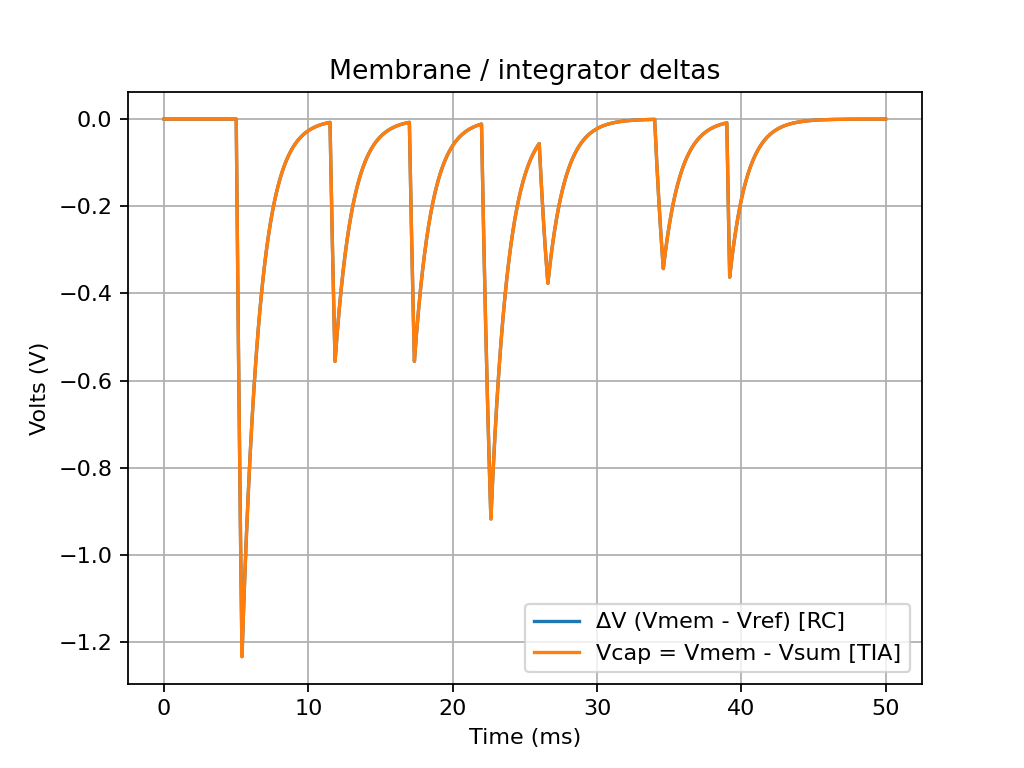
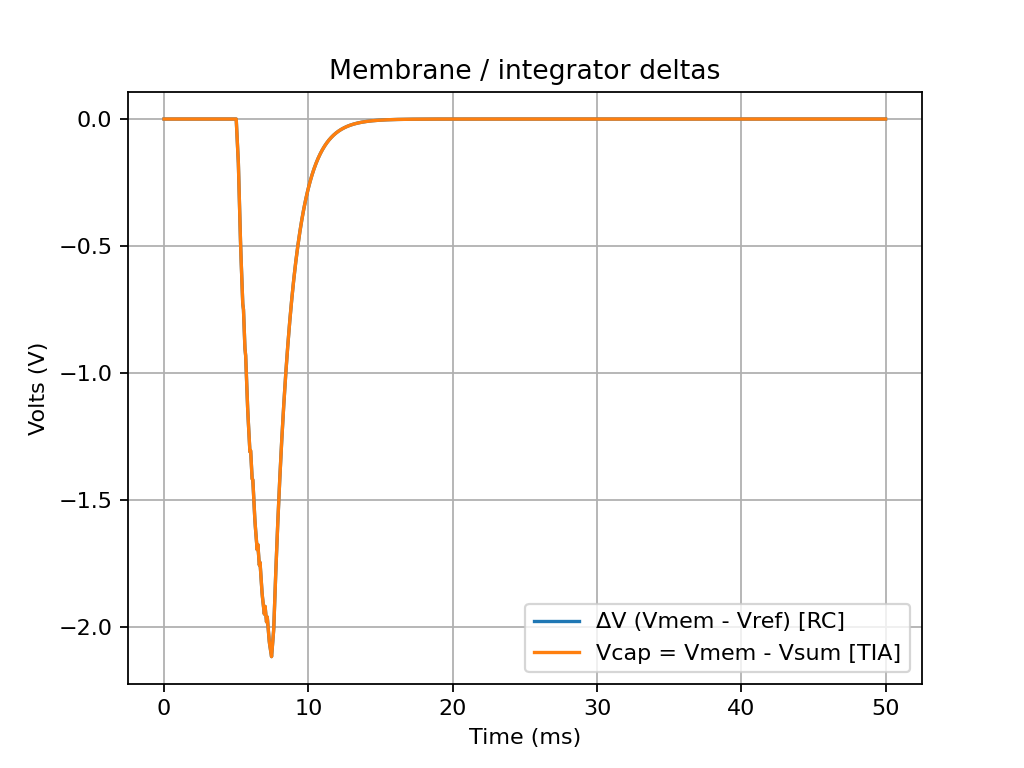
WIP: Batch parallelism changes (debugging accuracy drop)

diff --git a/SPICE/neuronSim/lif_neuron_generator.py b/SPICE/neuronSim/lif_neuron_generator.py
@@ -81,6 +81,22 @@ class AnalogOutCfg:
 class BiasCurrents:
     tia_A: float = 200e-6
     comparator_A: float = 150e-6
+
+@dataclass
+class PulseStretchCfg:
+    """
+    RC pulse stretch circuit configuration.
+
+    When comparator fires HIGH, diode Dpw forward-biases and charges Cpw to V_peak.
+    When comparator goes LOW, diode reverse-biases and Cpw decays through R_eff.
+
+    R_eff = R_pw || R_load (parallel combination for discharge)
+    tau_eff = R_eff * C_pw
+    """
+    enable: bool = False
+    R_pw_ohm: float = 20000.0      # Pulldown resistor (20kΩ typical)
+    C_pw_F: float = 100e-9         # Pulse capacitor (100nF typical)
+    R_load_ohm: float = 10000.0    # Load resistance (affects discharge rate)
 @dataclass
 class NeuronConfig:
     name: str
@@ -92,11 +108,20 @@ class NeuronConfig:
     simulation: SimCfg
     analog_out: AnalogOutCfg = field(default_factory=AnalogOutCfg)
     bias_currents: BiasCurrents = field(default_factory=BiasCurrents)
+    pulse_stretch: PulseStretchCfg = field(default_factory=PulseStretchCfg)
 
     @staticmethod
     def load(json_path: str) -> "NeuronConfig":
         with open(json_path, "r") as f:
             d = json.load(f)
+        # Parse pulse_stretch config, handling both snake_case and PascalCase keys
+        ps_dict = d.get("pulse_stretch", {})
+        ps_kwargs = {
+            "enable": ps_dict.get("enable", False),
+            "R_pw_ohm": ps_dict.get("R_pw_ohm", ps_dict.get("r_pw_ohm", 20000.0)),
+            "C_pw_F": ps_dict.get("C_pw_F", ps_dict.get("c_pw_f", 100e-9)),
+            "R_load_ohm": ps_dict.get("R_load_ohm", ps_dict.get("r_load_ohm", 10000.0)),
+        }
         return NeuronConfig(
             name=d.get("name","lif_neuron"),
             supplies=Supplies(**d["supplies"]),
@@ -107,6 +132,7 @@ class NeuronConfig:
             simulation=SimCfg(**d["simulation"]),
             analog_out=AnalogOutCfg(**d.get("analog_out", {})),
             bias_currents=BiasCurrents(**d.get("bias_currents", {})),
+            pulse_stretch=PulseStretchCfg(**ps_kwargs),
         )
 
 # -------------------- Helpers --------------------
@@ -200,21 +226,47 @@ def generate_detailed_neuron(cfg: NeuronConfig) -> str:
     rc   = max(cfg.comparator.prop_delay_s/10.0, 1e-9)
     rout = max(cfg.comparator.prop_delay_s/rc, 10.0)
 
-    s.append("Bdef vdef 0 V = V(vref) - V(mem)\n")
+    # Membrane deflection: positive when membrane rises above Vref
+    s.append("Bdef vdef 0 V = V(mem) - V(vref)\n")
     s.append("Btheta_rel vtheta_rel 0 V = V(vth_node) - V(vref)\n")
-    s.append("* Soft comparator: force threshold to the configured over_vref (align with Rust model)\n")
+    # Soft comparator: fires HIGH when vdef > threshold (membrane above Vref + over_vref_V)
+    s.append("* Soft comparator: fires when V(mem) > V(vref) + over_vref_V (align with Rust model)\n")
     s.append(
         f"Bcomp comp_raw 0 V = VLO + (VHI - VLO)*(0.5*(1 + tanh( ( V(vdef) - ( {cfg.threshold.over_vref_V} + {cfg.comparator.offset_V} ) ) / VSW )))\n"
     )
-    s.append(f"Rcout comp_raw comp_out {rout}\n")
-    s.append(f"Ccout comp_out 0 {rc}\n")
+    # Pulse stretch circuit: RC decay after comparator
+    if cfg.pulse_stretch.enable:
+        # Route comparator through pulse stretch circuit
+        # comp_raw -> Rcout -> comp_shaped -> Dpw -> comp_out
+        # Cpw and Rpw provide the RC decay when comparator goes low
+        s.append(f"Rcout comp_raw comp_shaped {rout}\n")
+        s.append(f"Ccout comp_shaped 0 {rc}\n")
+
+        # Pulse stretch diode: charges Cpw when comp_shaped goes HIGH
+        s.append("* Pulse stretch circuit (RC decay)\n")
+        s.append(".model DPW D(Is=1e-12 N=1.05 Rs=10)\n")
+        s.append("Dpw comp_shaped comp_out DPW\n")
+
+        # Pulse stretch capacitor and discharge resistor
+        s.append(f"Cpw comp_out 0 {cfg.pulse_stretch.C_pw_F}\n")
+        s.append(f"Rpw comp_out 0 {cfg.pulse_stretch.R_pw_ohm}\n")
+
+        # Note: R_load is typically external (in the network), but we can add
+        # a parallel path if specified for internal discharge modeling
+    else:
+        # No pulse stretch - direct comparator output
+        s.append(f"Rcout comp_raw comp_out {rout}\n")
+        s.append(f"Ccout comp_out 0 {rc}\n")
+
     s.append(f"Icomp_bias vdd 0 {cfg.bias_currents.comparator_A}\n")
 
-    # Reset path
+    # Reset path - use comp_shaped (raw comparator) for reset control, not stretched output
     if cfg.reset.enable:
         s.append(f"Rreset mem reset_node {cfg.reset.series_R_ohm}\n")
         s.append(f"Coff_reset reset_node vref {cfg.reset.mux_Coff_F}\n")
-        s.append("Sreset reset_node vref comp_out 0 SWMUX\n")
+        # Use comp_shaped for reset control when pulse stretch is enabled
+        reset_control = "comp_shaped" if cfg.pulse_stretch.enable else "comp_out"
+        s.append(f"Sreset reset_node vref {reset_control} 0 SWMUX\n")
         s.append(f".model SWMUX SW(Ron={cfg.reset.mux_Ron_ohm} Roff={cfg.reset.mux_Roff_ohm} Vt={cfg.reset.switch_Vt} Vh={cfg.reset.switch_Vh})\n")
 
     # Analog output (scaled (Vmem - Vref) for plotting/hybrid)
